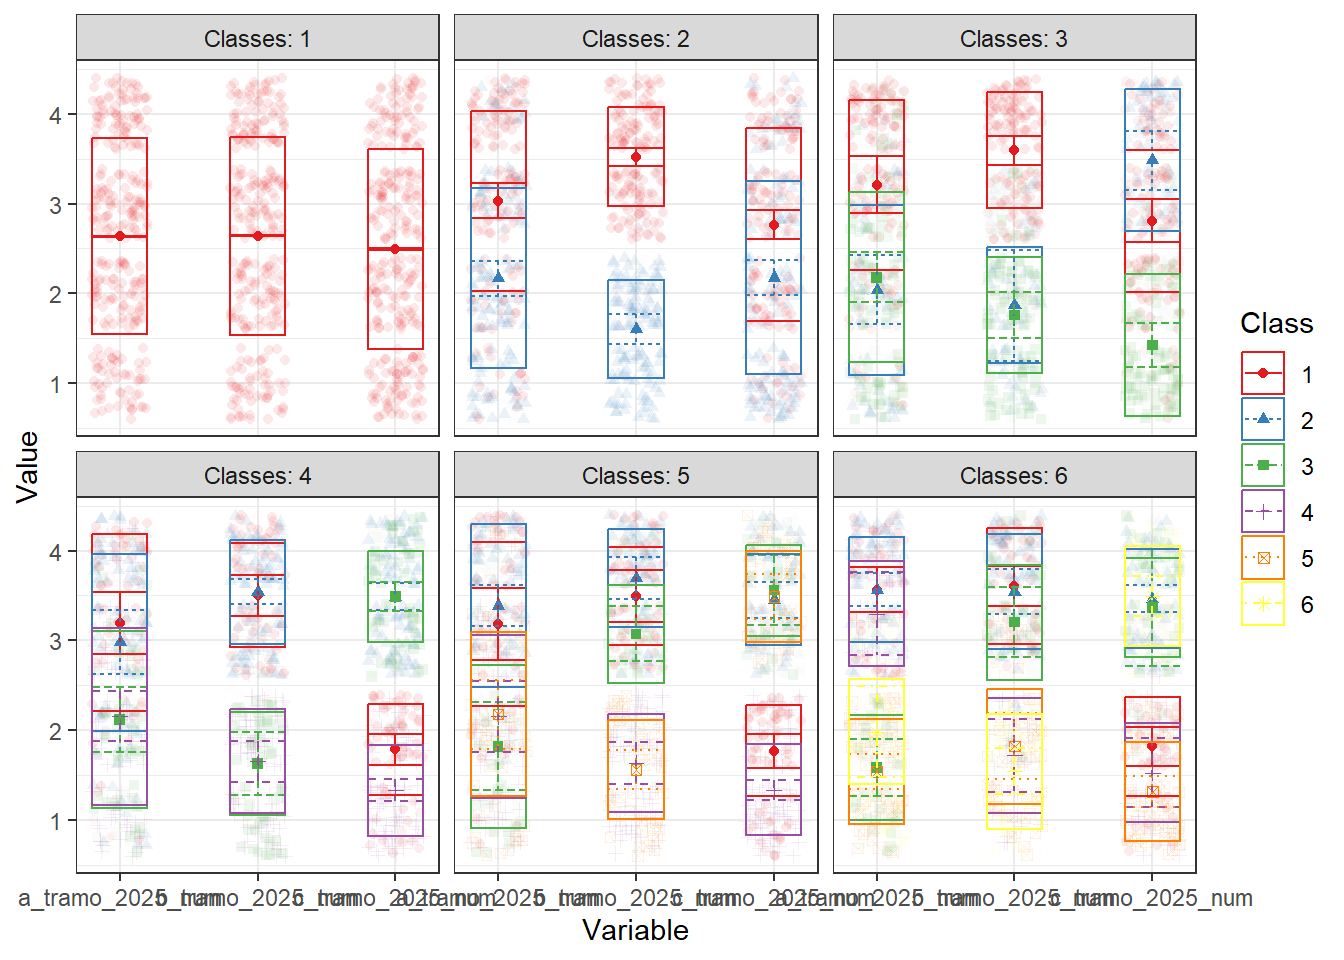
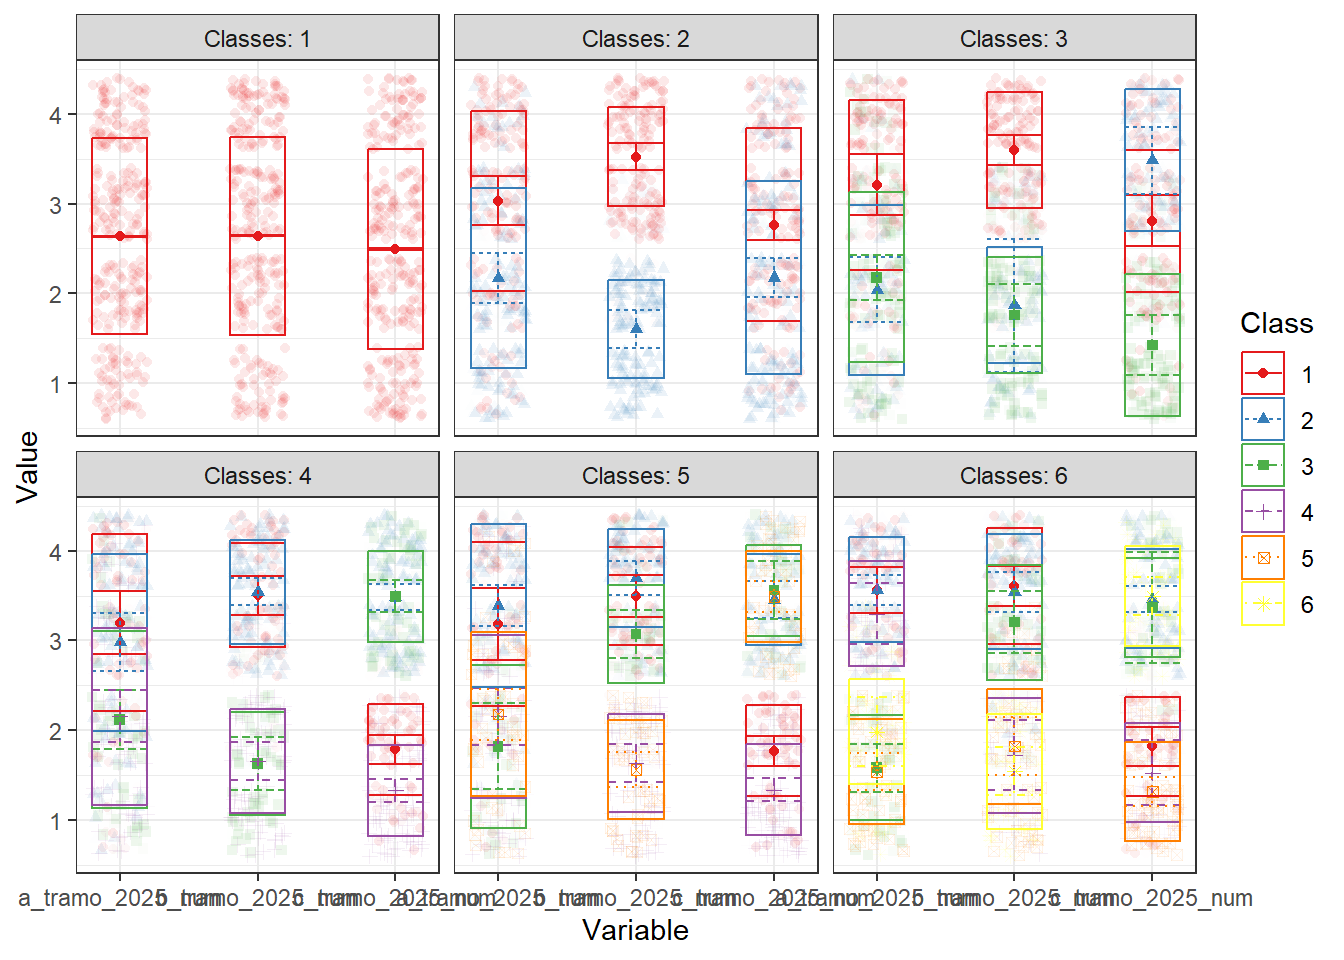
lpa version 2

diff --git a/reports/latent-analysis.html b/reports/latent-analysis.html
@@ -457,203 +457,63 @@ dplyr 1.1.0.
 <span id="cb22-10"><a href="#cb22-10" aria-hidden="true" tabindex="-1"></a>  ) <span class="sc">%&gt;%</span></span>
 <span id="cb22-11"><a href="#cb22-11" aria-hidden="true" tabindex="-1"></a>  <span class="fu">pivot_longer</span>(<span class="at">cols =</span> <span class="fu">c</span>(idh, pobreza, poblacion), <span class="at">names_to =</span> <span class="st">"variable"</span>, <span class="at">values_to =</span> <span class="st">"promedio"</span>)</span>
 <span id="cb22-12"><a href="#cb22-12" aria-hidden="true" tabindex="-1"></a></span>
-<span id="cb22-13"><a href="#cb22-13" aria-hidden="true" tabindex="-1"></a>tabla_num_4 <span class="sc">%&gt;%</span> </span>
-<span id="cb22-14"><a href="#cb22-14" aria-hidden="true" tabindex="-1"></a>  <span class="fu">mutate</span>(<span class="at">promedio =</span> <span class="fu">round</span>(promedio, <span class="dv">2</span>))<span class="sc">%&gt;%</span></span>
-<span id="cb22-15"><a href="#cb22-15" aria-hidden="true" tabindex="-1"></a>  <span class="fu">arrange</span>(variable) <span class="sc">%&gt;%</span></span>
-<span id="cb22-16"><a href="#cb22-16" aria-hidden="true" tabindex="-1"></a>  <span class="fu">kable</span>()</span></code><button title="Copy to Clipboard" class="code-copy-button"><i class="bi"></i></button></pre></div>
+<span id="cb22-13"><a href="#cb22-13" aria-hidden="true" tabindex="-1"></a><span class="fu">ggplot</span>(tabla_num_4, <span class="fu">aes</span>(<span class="at">x =</span> class_fourth_2025, <span class="at">y =</span> promedio, <span class="at">color =</span> variable, <span class="at">group =</span> variable)) <span class="sc">+</span></span>
+<span id="cb22-14"><a href="#cb22-14" aria-hidden="true" tabindex="-1"></a>  <span class="fu">geom_line</span>(<span class="at">size =</span> <span class="fl">1.2</span>) <span class="sc">+</span></span>
+<span id="cb22-15"><a href="#cb22-15" aria-hidden="true" tabindex="-1"></a>  <span class="fu">geom_point</span>(<span class="at">size =</span> <span class="dv">3</span>) <span class="sc">+</span></span>
+<span id="cb22-16"><a href="#cb22-16" aria-hidden="true" tabindex="-1"></a>  <span class="fu">facet_wrap</span>(<span class="sc">~</span> variable, <span class="at">scales =</span> <span class="st">"free_y"</span>) <span class="sc">+</span>  <span class="co"># eje independiente por variable</span></span>
+<span id="cb22-17"><a href="#cb22-17" aria-hidden="true" tabindex="-1"></a>  <span class="fu">scale_color_brewer</span>(<span class="at">palette =</span> <span class="st">"Set1"</span>) <span class="sc">+</span></span>
+<span id="cb22-18"><a href="#cb22-18" aria-hidden="true" tabindex="-1"></a>  <span class="fu">labs</span>(</span>
+<span id="cb22-19"><a href="#cb22-19" aria-hidden="true" tabindex="-1"></a>    <span class="at">title =</span> <span class="st">"Promedio de población, desarrollo humano y pobreza por clase (4 clases)"</span>,</span>
+<span id="cb22-20"><a href="#cb22-20" aria-hidden="true" tabindex="-1"></a>    <span class="at">x =</span> <span class="st">"Clase latente"</span>,</span>
+<span id="cb22-21"><a href="#cb22-21" aria-hidden="true" tabindex="-1"></a>    <span class="at">y =</span> <span class="st">"Promedio"</span>,</span>
+<span id="cb22-22"><a href="#cb22-22" aria-hidden="true" tabindex="-1"></a>    <span class="at">color =</span> <span class="st">"Variable"</span></span>
+<span id="cb22-23"><a href="#cb22-23" aria-hidden="true" tabindex="-1"></a>  ) <span class="sc">+</span></span>
+<span id="cb22-24"><a href="#cb22-24" aria-hidden="true" tabindex="-1"></a>  <span class="fu">theme_minimal</span>(<span class="at">base_size =</span> <span class="dv">14</span>) <span class="sc">+</span></span>
+<span id="cb22-25"><a href="#cb22-25" aria-hidden="true" tabindex="-1"></a>  <span class="fu">theme</span>(<span class="at">legend.position =</span> <span class="st">"none"</span>)  <span class="co"># opcional, porque cada panel ya está etiquetado</span></span></code><button title="Copy to Clipboard" class="code-copy-button"><i class="bi"></i></button></pre></div>
+<div class="cell-output cell-output-stderr">
+<pre><code>Warning: Using `size` aesthetic for lines was deprecated in ggplot2 3.4.0.
+ℹ Please use `linewidth` instead.</code></pre>
+</div>
 <div class="cell-output-display">
-<table class="caption-top table table-sm table-striped small">
-<thead>
-<tr class="header">
-<th style="text-align: right;">class_fourth_2025</th>
-<th style="text-align: left;">variable</th>
-<th style="text-align: right;">promedio</th>
-</tr>
-</thead>
-<tbody>
-<tr class="odd">
-<td style="text-align: right;">1</td>
-<td style="text-align: left;">idh</td>
-<td style="text-align: right;">0.62</td>
-</tr>
-<tr class="even">
-<td style="text-align: right;">2</td>
-<td style="text-align: left;">idh</td>
-<td style="text-align: right;">0.62</td>
-</tr>
-<tr class="odd">
-<td style="text-align: right;">3</td>
-<td style="text-align: left;">idh</td>
-<td style="text-align: right;">0.57</td>
-</tr>
-<tr class="even">
-<td style="text-align: right;">4</td>
-<td style="text-align: left;">idh</td>
-<td style="text-align: right;">0.56</td>
-</tr>
-<tr class="odd">
-<td style="text-align: right;">1</td>
-<td style="text-align: left;">poblacion</td>
-<td style="text-align: right;">97976.89</td>
-</tr>
-<tr class="even">
-<td style="text-align: right;">2</td>
-<td style="text-align: left;">poblacion</td>
-<td style="text-align: right;">98726.92</td>
-</tr>
-<tr class="odd">
-<td style="text-align: right;">3</td>
-<td style="text-align: left;">poblacion</td>
-<td style="text-align: right;">21827.18</td>
-</tr>
-<tr class="even">
-<td style="text-align: right;">4</td>
-<td style="text-align: left;">poblacion</td>
-<td style="text-align: right;">22701.87</td>
-</tr>
-<tr class="odd">
-<td style="text-align: right;">1</td>
-<td style="text-align: left;">pobreza</td>
-<td style="text-align: right;">0.18</td>
-</tr>
-<tr class="even">
-<td style="text-align: right;">2</td>
-<td style="text-align: left;">pobreza</td>
-<td style="text-align: right;">0.17</td>
-</tr>
-<tr class="odd">
-<td style="text-align: right;">3</td>
-<td style="text-align: left;">pobreza</td>
-<td style="text-align: right;">0.19</td>
-</tr>
-<tr class="even">
-<td style="text-align: right;">4</td>
-<td style="text-align: left;">pobreza</td>
-<td style="text-align: right;">0.21</td>
-</tr>
-</tbody>
-</table>
+<div>
+<figure class="figure">
+<p><img src="latent-analysis_files/figure-html/unnamed-chunk-9-1.png" class="img-fluid figure-img" width="672"></p>
+</figure>
+</div>
 </div>
 </div>
 <div class="cell">
-<div class="sourceCode cell-code" id="cb23"><pre class="sourceCode r code-with-copy"><code class="sourceCode r"><span id="cb23-1"><a href="#cb23-1" aria-hidden="true" tabindex="-1"></a><span class="co"># Promedios por clase (4 clases)</span></span>
-<span id="cb23-2"><a href="#cb23-2" aria-hidden="true" tabindex="-1"></a>tabla_num_6 <span class="ot">&lt;-</span> idc_lpa <span class="sc">%&gt;%</span></span>
-<span id="cb23-3"><a href="#cb23-3" aria-hidden="true" tabindex="-1"></a>  <span class="fu">select</span>(class_six_2025, idh_2023, pobreza_2022, poblacion_censo_2024) <span class="sc">%&gt;%</span></span>
-<span id="cb23-4"><a href="#cb23-4" aria-hidden="true" tabindex="-1"></a>  <span class="fu">group_by</span>(class_six_2025) <span class="sc">%&gt;%</span></span>
-<span id="cb23-5"><a href="#cb23-5" aria-hidden="true" tabindex="-1"></a>  <span class="fu">summarise</span>(</span>
-<span id="cb23-6"><a href="#cb23-6" aria-hidden="true" tabindex="-1"></a>    <span class="at">idh =</span> <span class="fu">mean</span>(idh_2023, <span class="at">na.rm =</span> <span class="cn">TRUE</span>),</span>
-<span id="cb23-7"><a href="#cb23-7" aria-hidden="true" tabindex="-1"></a>    <span class="at">pobreza =</span> <span class="fu">mean</span>(pobreza_2022, <span class="at">na.rm =</span> <span class="cn">TRUE</span>),</span>
-<span id="cb23-8"><a href="#cb23-8" aria-hidden="true" tabindex="-1"></a>    <span class="at">poblacion =</span> <span class="fu">mean</span>(poblacion_censo_2024, <span class="at">na.rm =</span> <span class="cn">TRUE</span>),</span>
-<span id="cb23-9"><a href="#cb23-9" aria-hidden="true" tabindex="-1"></a>    <span class="at">.groups =</span> <span class="st">"drop"</span></span>
-<span id="cb23-10"><a href="#cb23-10" aria-hidden="true" tabindex="-1"></a>  ) <span class="sc">%&gt;%</span></span>
-<span id="cb23-11"><a href="#cb23-11" aria-hidden="true" tabindex="-1"></a>  <span class="fu">pivot_longer</span>(<span class="at">cols =</span> <span class="fu">c</span>(idh, pobreza, poblacion), <span class="at">names_to =</span> <span class="st">"variable"</span>, <span class="at">values_to =</span> <span class="st">"promedio"</span>)</span>
-<span id="cb23-12"><a href="#cb23-12" aria-hidden="true" tabindex="-1"></a></span>
-<span id="cb23-13"><a href="#cb23-13" aria-hidden="true" tabindex="-1"></a>tabla_num_6 <span class="sc">%&gt;%</span> </span>
-<span id="cb23-14"><a href="#cb23-14" aria-hidden="true" tabindex="-1"></a>  <span class="fu">mutate</span>(<span class="at">promedio =</span> <span class="fu">round</span>(promedio, <span class="dv">2</span>))<span class="sc">%&gt;%</span></span>
-<span id="cb23-15"><a href="#cb23-15" aria-hidden="true" tabindex="-1"></a>  <span class="fu">arrange</span>(variable) <span class="sc">%&gt;%</span></span>
-<span id="cb23-16"><a href="#cb23-16" aria-hidden="true" tabindex="-1"></a>  <span class="fu">kable</span>()</span></code><button title="Copy to Clipboard" class="code-copy-button"><i class="bi"></i></button></pre></div>
+<div class="sourceCode cell-code" id="cb24"><pre class="sourceCode r code-with-copy"><code class="sourceCode r"><span id="cb24-1"><a href="#cb24-1" aria-hidden="true" tabindex="-1"></a><span class="co"># Promedios por clase (6 clases)</span></span>
+<span id="cb24-2"><a href="#cb24-2" aria-hidden="true" tabindex="-1"></a>tabla_num_6 <span class="ot">&lt;-</span> idc_lpa <span class="sc">%&gt;%</span></span>
+<span id="cb24-3"><a href="#cb24-3" aria-hidden="true" tabindex="-1"></a>  <span class="fu">select</span>(class_six_2025, idh_2023, pobreza_2022, poblacion_censo_2024) <span class="sc">%&gt;%</span></span>
+<span id="cb24-4"><a href="#cb24-4" aria-hidden="true" tabindex="-1"></a>  <span class="fu">group_by</span>(class_six_2025) <span class="sc">%&gt;%</span></span>
+<span id="cb24-5"><a href="#cb24-5" aria-hidden="true" tabindex="-1"></a>  <span class="fu">summarise</span>(</span>
+<span id="cb24-6"><a href="#cb24-6" aria-hidden="true" tabindex="-1"></a>    <span class="at">idh =</span> <span class="fu">mean</span>(idh_2023, <span class="at">na.rm =</span> <span class="cn">TRUE</span>),</span>
+<span id="cb24-7"><a href="#cb24-7" aria-hidden="true" tabindex="-1"></a>    <span class="at">pobreza =</span> <span class="fu">mean</span>(pobreza_2022, <span class="at">na.rm =</span> <span class="cn">TRUE</span>),</span>
+<span id="cb24-8"><a href="#cb24-8" aria-hidden="true" tabindex="-1"></a>    <span class="at">poblacion =</span> <span class="fu">mean</span>(poblacion_censo_2024, <span class="at">na.rm =</span> <span class="cn">TRUE</span>),</span>
+<span id="cb24-9"><a href="#cb24-9" aria-hidden="true" tabindex="-1"></a>    <span class="at">.groups =</span> <span class="st">"drop"</span></span>
+<span id="cb24-10"><a href="#cb24-10" aria-hidden="true" tabindex="-1"></a>  ) <span class="sc">%&gt;%</span></span>
+<span id="cb24-11"><a href="#cb24-11" aria-hidden="true" tabindex="-1"></a>  <span class="fu">pivot_longer</span>(<span class="at">cols =</span> <span class="fu">c</span>(idh, pobreza, poblacion), <span class="at">names_to =</span> <span class="st">"variable"</span>, <span class="at">values_to =</span> <span class="st">"promedio"</span>)</span>
+<span id="cb24-12"><a href="#cb24-12" aria-hidden="true" tabindex="-1"></a></span>
+<span id="cb24-13"><a href="#cb24-13" aria-hidden="true" tabindex="-1"></a><span class="fu">ggplot</span>(tabla_num_6, <span class="fu">aes</span>(<span class="at">x =</span> class_six_2025, <span class="at">y =</span> promedio, <span class="at">color =</span> variable, <span class="at">group =</span> variable)) <span class="sc">+</span></span>
+<span id="cb24-14"><a href="#cb24-14" aria-hidden="true" tabindex="-1"></a>  <span class="fu">geom_line</span>(<span class="at">size =</span> <span class="fl">1.2</span>) <span class="sc">+</span></span>
+<span id="cb24-15"><a href="#cb24-15" aria-hidden="true" tabindex="-1"></a>  <span class="fu">geom_point</span>(<span class="at">size =</span> <span class="dv">3</span>) <span class="sc">+</span></span>
+<span id="cb24-16"><a href="#cb24-16" aria-hidden="true" tabindex="-1"></a>  <span class="fu">facet_wrap</span>(<span class="sc">~</span> variable, <span class="at">scales =</span> <span class="st">"free_y"</span>) <span class="sc">+</span></span>
+<span id="cb24-17"><a href="#cb24-17" aria-hidden="true" tabindex="-1"></a>  <span class="fu">scale_color_brewer</span>(<span class="at">palette =</span> <span class="st">"Set1"</span>) <span class="sc">+</span></span>
+<span id="cb24-18"><a href="#cb24-18" aria-hidden="true" tabindex="-1"></a>  <span class="fu">labs</span>(</span>
+<span id="cb24-19"><a href="#cb24-19" aria-hidden="true" tabindex="-1"></a>    <span class="at">title =</span> <span class="st">"Promedio de población, desarrollo humano y pobreza por clase (6 clases)"</span>,</span>
+<span id="cb24-20"><a href="#cb24-20" aria-hidden="true" tabindex="-1"></a>    <span class="at">x =</span> <span class="st">"Clase latente"</span>,</span>
+<span id="cb24-21"><a href="#cb24-21" aria-hidden="true" tabindex="-1"></a>    <span class="at">y =</span> <span class="st">"Promedio"</span>,</span>
+<span id="cb24-22"><a href="#cb24-22" aria-hidden="true" tabindex="-1"></a>    <span class="at">color =</span> <span class="st">"Variable"</span></span>
+<span id="cb24-23"><a href="#cb24-23" aria-hidden="true" tabindex="-1"></a>  ) <span class="sc">+</span></span>
+<span id="cb24-24"><a href="#cb24-24" aria-hidden="true" tabindex="-1"></a>  <span class="fu">theme_minimal</span>(<span class="at">base_size =</span> <span class="dv">14</span>) <span class="sc">+</span></span>
+<span id="cb24-25"><a href="#cb24-25" aria-hidden="true" tabindex="-1"></a>  <span class="fu">theme</span>(<span class="at">legend.position =</span> <span class="st">"none"</span>)</span></code><button title="Copy to Clipboard" class="code-copy-button"><i class="bi"></i></button></pre></div>
 <div class="cell-output-display">
-<table class="caption-top table table-sm table-striped small">
-<thead>
-<tr class="header">
-<th style="text-align: right;">class_six_2025</th>
-<th style="text-align: left;">variable</th>
-<th style="text-align: right;">promedio</th>
-</tr>
-</thead>
-<tbody>
-<tr class="odd">
-<td style="text-align: right;">1</td>
-<td style="text-align: left;">idh</td>
-<td style="text-align: right;">0.63</td>
-</tr>
-<tr class="even">
-<td style="text-align: right;">2</td>
-<td style="text-align: left;">idh</td>
-<td style="text-align: right;">0.65</td>
-</tr>
-<tr class="odd">
-<td style="text-align: right;">3</td>
-<td style="text-align: left;">idh</td>
-<td style="text-align: right;">0.54</td>
-</tr>
-<tr class="even">
-<td style="text-align: right;">4</td>
-<td style="text-align: left;">idh</td>
-<td style="text-align: right;">0.61</td>
-</tr>
-<tr class="odd">
-<td style="text-align: right;">5</td>
-<td style="text-align: left;">idh</td>
-<td style="text-align: right;">0.54</td>
-</tr>
-<tr class="even">
-<td style="text-align: right;">6</td>
-<td style="text-align: left;">idh</td>
-<td style="text-align: right;">0.57</td>
-</tr>
-<tr class="odd">
-<td style="text-align: right;">1</td>
-<td style="text-align: left;">poblacion</td>
-<td style="text-align: right;">117591.02</td>
-</tr>
-<tr class="even">
-<td style="text-align: right;">2</td>
-<td style="text-align: left;">poblacion</td>
-<td style="text-align: right;">121618.21</td>
-</tr>
-<tr class="odd">
-<td style="text-align: right;">3</td>
-<td style="text-align: left;">poblacion</td>
-<td style="text-align: right;">35627.06</td>
-</tr>
-<tr class="even">
-<td style="text-align: right;">4</td>
-<td style="text-align: left;">poblacion</td>
-<td style="text-align: right;">37329.42</td>
-</tr>
-<tr class="odd">
-<td style="text-align: right;">5</td>
-<td style="text-align: left;">poblacion</td>
-<td style="text-align: right;">16672.70</td>
-</tr>
-<tr class="even">
-<td style="text-align: right;">6</td>
-<td style="text-align: left;">poblacion</td>
-<td style="text-align: right;">20167.98</td>
-</tr>
-<tr class="odd">
-<td style="text-align: right;">1</td>
-<td style="text-align: left;">pobreza</td>
-<td style="text-align: right;">0.17</td>
-</tr>
-<tr class="even">
-<td style="text-align: right;">2</td>
-<td style="text-align: left;">pobreza</td>
-<td style="text-align: right;">0.16</td>
-</tr>
-<tr class="odd">
-<td style="text-align: right;">3</td>
-<td style="text-align: left;">pobreza</td>
-<td style="text-align: right;">0.20</td>
-</tr>
-<tr class="even">
-<td style="text-align: right;">4</td>
-<td style="text-align: left;">pobreza</td>
-<td style="text-align: right;">0.19</td>
-</tr>
-<tr class="odd">
-<td style="text-align: right;">5</td>
-<td style="text-align: left;">pobreza</td>
-<td style="text-align: right;">0.21</td>
-</tr>
-<tr class="even">
-<td style="text-align: right;">6</td>
-<td style="text-align: left;">pobreza</td>
-<td style="text-align: right;">0.20</td>
-</tr>
-</tbody>
-</table>
+<div>
+<figure class="figure">
+<p><img src="latent-analysis_files/figure-html/unnamed-chunk-10-1.png" class="img-fluid figure-img" width="672"></p>
+</figure>
+</div>
 </div>
 </div>
 </section>
